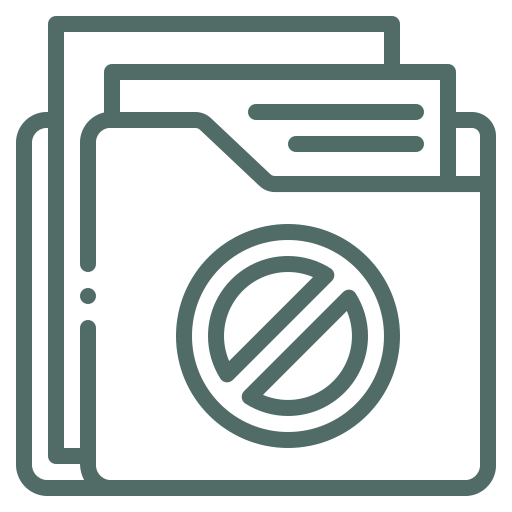
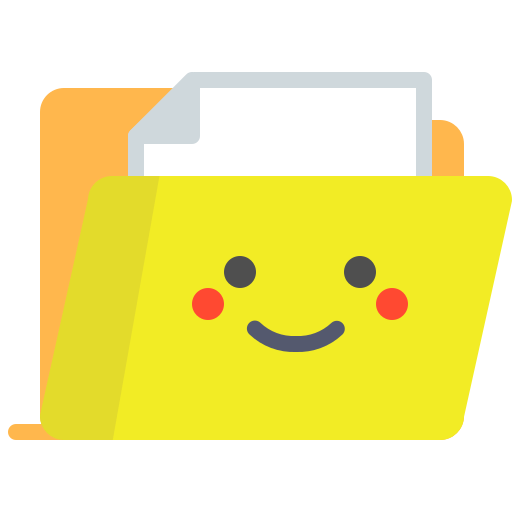
Release v0.0.7

diff --git a/CHANGELOG.md b/CHANGELOG.md
@@ -1,8 +1,12 @@
 # Change Log
 
+## [v0.0.7]
+
+- Updated to icon to Mr. Smiley
+
 ## [v0.0.6]
 
-- Changed icon for app in VSCode Marketplace
+- Added better context screenshot of usage in README
 
 ## [v0.0.5]
 
